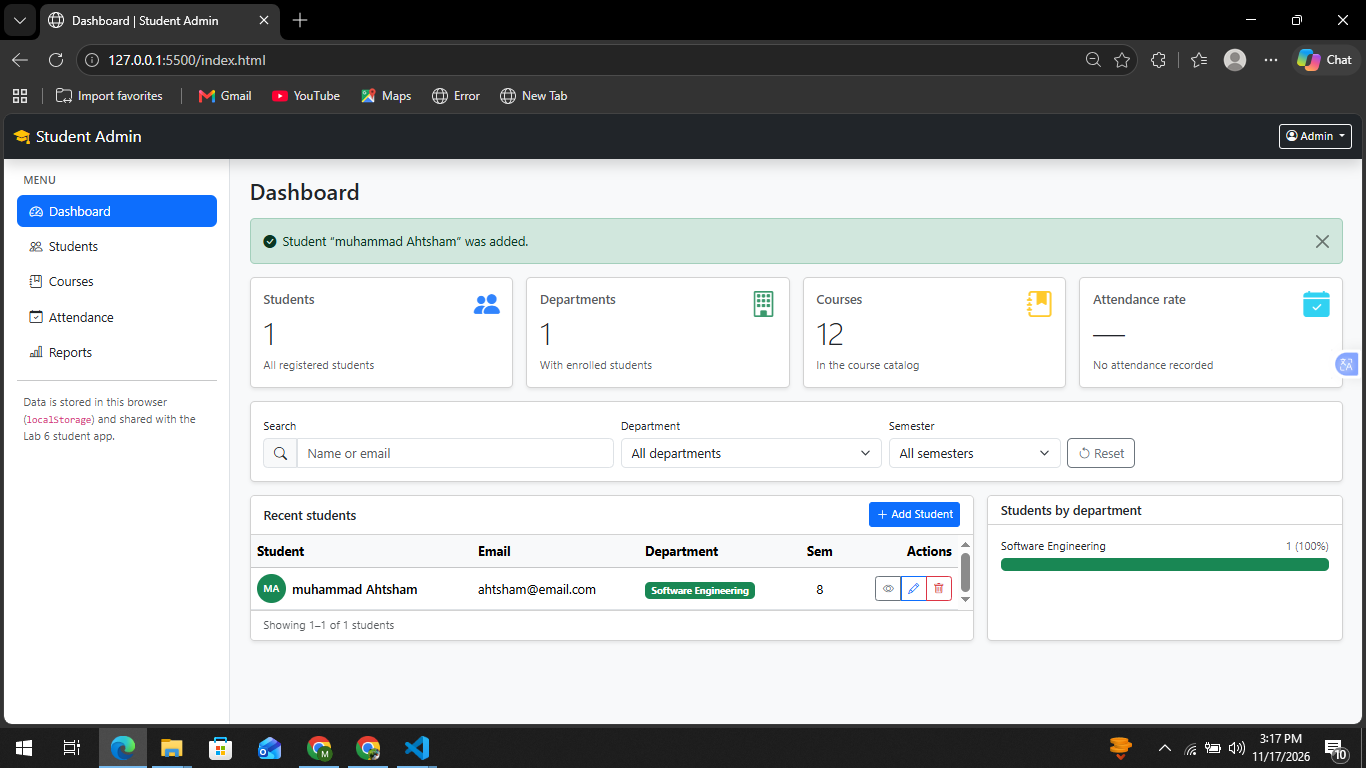
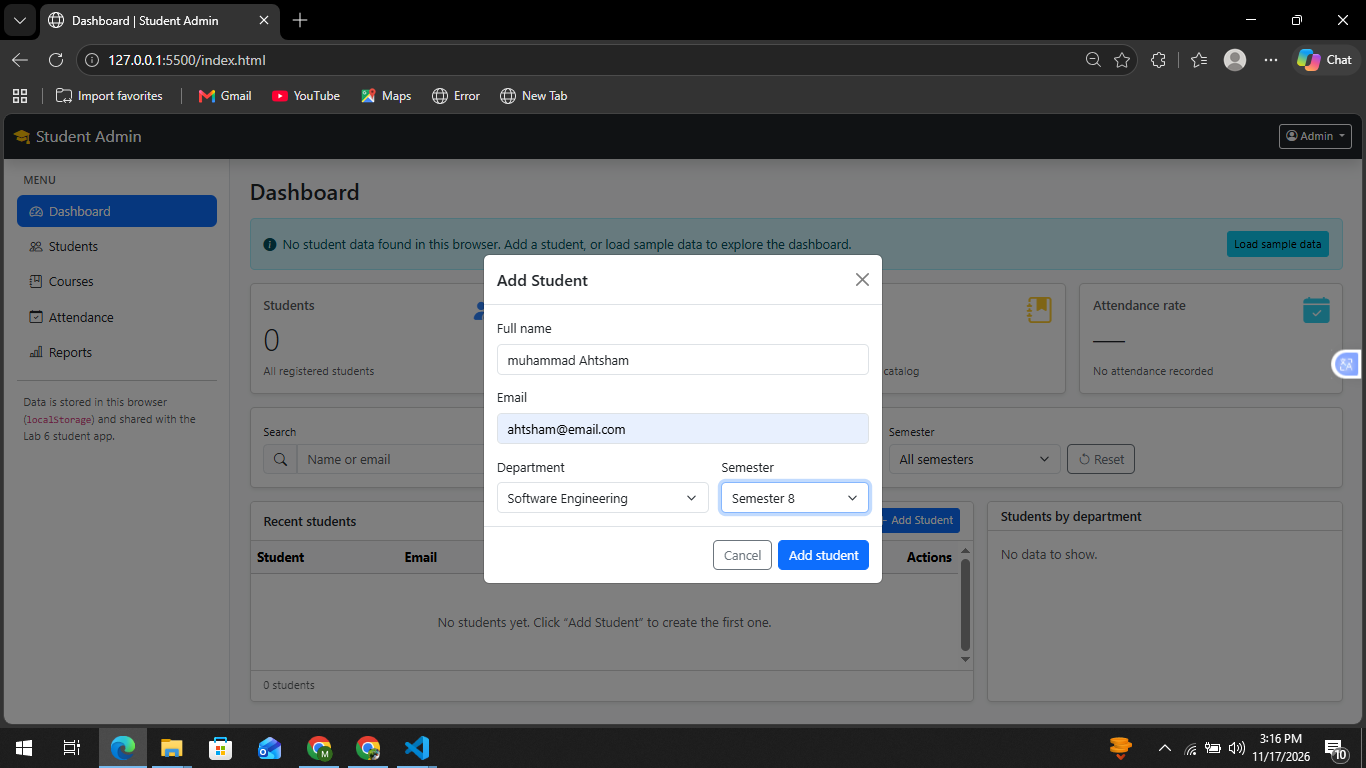
addes more screenshots

diff --git a/README.md b/README.md
@@ -2,11 +2,14 @@ Bootstrap 5 Professional Admin Dashboard
 
 ![ ](screenshots/1.png)
 
+
 ![ ](screenshots/2.png)
 
 ![ ](screenshots/3.png)
 
 ![ ](screenshots/4.png)
+
+![ ](screenshots/5.png)
 
 
 Student admin dashboard built with **HTML + Bootstrap 5.3 + JavaScript**. Bootstrap and Bootstrap Icons are
